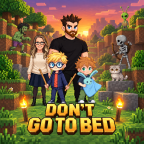
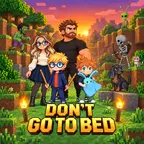
Use approved family artwork on Dont Go To Bed website

diff --git a/dontgotobed/styles.css b/dontgotobed/styles.css
@@ -1,1 +1,4 @@
 :root{color-scheme:dark;--bg:#0b1220;--surface:#15253a;--ink:#f4f4f6;--muted:#bdccdc;--accent:#ffd166;--line:#34465b;font:17px/1.7 system-ui,-apple-system,BlinkMacSystemFont,"Segoe UI",sans-serif;color:var(--ink);background:var(--bg)}*{box-sizing:border-box}body{margin:0;background:radial-gradient(ellipse at 85% 5%,#253a57,transparent 40%)}.wrap{max-width:1180px;margin:auto;padding:0 28px}a{color:#b8e8ef;text-underline-offset:4px;overflow-wrap:anywhere}a:hover{color:white}a:focus-visible,summary:focus-visible{outline:3px solid var(--accent);outline-offset:5px}.skip{position:absolute;top:-100px}.skip:focus{top:8px;background:var(--bg);padding:12px;z-index:10}header,footer{display:flex;align-items:center;justify-content:space-between;gap:24px;padding:28px 0}header{border-bottom:1px solid var(--line)}nav{display:flex;flex-wrap:wrap;gap:18px}.brand{display:flex;gap:12px;align-items:center;color:var(--ink);font-weight:800;text-decoration:none}.brand img{border-radius:10px}.hero{display:grid;grid-template-columns:1.1fr 1fr;gap:44px;align-items:center;padding:64px 0 24px;border:0}h1,h2,h3{line-height:1.12;letter-spacing:-.035em}h1{font-size:clamp(2.6rem,5vw,4.25rem);margin:20px 0 28px}h1 span{color:var(--accent)}h2{font-size:clamp(1.8rem,3vw,2.6rem);margin:12px 0 28px}h3{font-size:1.25rem}.eyebrow,.number{font-size:.76rem;letter-spacing:.13em;text-transform:uppercase;color:var(--accent);font-weight:800}.lead{font-size:1.14rem;color:var(--muted);max-width:60ch}.button{display:inline-block;background:var(--accent);color:var(--bg);padding:14px 20px;border-radius:12px;text-decoration:none;font-weight:750;margin:14px 0}.button:hover{background:#ffe3a0;color:var(--bg)}.note,figcaption{font-size:.85rem;color:var(--muted)}.hero-art{height:460px;position:relative;overflow:hidden;border-radius:34px;background:radial-gradient(circle at 65% 25%,#436386,#16283e 70%);box-shadow:0 25px 65px #0005}.moon{position:absolute;right:42px;top:42px;width:72px;height:72px;border-radius:50%;background:#ffe2a0;box-shadow:0 0 70px #ffe2a044}.hero-art img{position:absolute;object-fit:contain;object-position:bottom;bottom:65px;filter:drop-shadow(5px 7px 0 #0003)}.papa{left:29%;width:42%;height:310px}.leo{left:6%;width:36%;height:230px}.ian{left:61%;width:32%;height:230px}.ground{position:absolute;bottom:0;left:0;right:0;height:70px;border-top:14px solid #79b87c;background:repeating-linear-gradient(90deg,transparent 0 62px,#39271c44 62px 64px),#78503a}.pills{display:flex;flex-wrap:wrap;gap:12px;margin:26px 0 40px}.pills span{border:1px solid var(--line);border-radius:40px;padding:7px 14px;font-size:.82rem;color:var(--muted)}section{padding:56px 0;border-top:1px solid var(--line);scroll-margin-top:24px}.grid{display:grid;grid-template-columns:repeat(3,1fr);gap:22px}.grid article{padding:28px;background:var(--surface);border:1px solid var(--line);border-radius:20px}.grid p,.story p,.questions p{color:var(--muted)}figure{margin:28px 0 0}.screenshot{width:100%;height:auto;border:1px solid var(--line);border-radius:20px;display:block}figcaption{margin-top:12px}.story{display:grid;grid-template-columns:1fr 1fr;gap:50px}.questions{max-width:850px;margin:auto}details{border-bottom:1px solid var(--line);padding:12px 0}summary{cursor:pointer;font-weight:650;min-height:44px;padding:8px 0}.closing{display:flex;align-items:center;gap:25px;padding:30px;background:var(--surface);border:1px solid var(--line);border-radius:24px;margin:40px 0 65px}.closing > img{border-radius:16px}.closing h2{font-size:1.75rem;margin-bottom:10px}.closing p{margin:6px 0}footer{border-top:1px solid var(--line);font-size:.85rem;color:var(--muted);align-items:flex-start;padding-bottom:40px}.legal{max-width:800px;padding:40px 0 64px}.legal h1{font-size:clamp(2.2rem,5vw,3.3rem)}.legal h2{font-size:1.45rem;margin-top:36px}.legal p{color:var(--muted)}@media(max-width:820px){.hero,.grid,.story{grid-template-columns:1fr}.hero{padding-top:36px;gap:25px}.hero-art{max-width:550px;width:100%;justify-self:center}.story{gap:0}footer{flex-direction:column}}@media(max-width:520px){.wrap{padding:0 20px}header{align-items:flex-start;flex-direction:column;gap:14px}nav{font-size:.9rem;gap:14px}.hero-art{height:350px}.papa{height:260px}.leo,.ian{height:195px}.moon{width:55px;height:55px;top:28px;right:30px}section{padding:38px 0}.closing{align-items:flex-start;flex-direction:column;padding:24px}.grid article{padding:24px}}@media(prefers-reduced-motion:reduce){*{scroll-behavior:auto!important;animation:none!important;transition:none!important}}
+
+/* Approved family promotional artwork, October 2026. */
+.family-key-art{align-self:center;min-width:0}.family-key-art img{display:block;width:100%;height:auto;border-radius:12px}

diff --git a/dontgotobed/index.html b/dontgotobed/index.html
@@ -10,7 +10,7 @@
 <link rel="icon" type="image/webp" href="/dontgotobed/assets/game-icon-144.webp">
 <link rel="stylesheet" href="/dontgotobed/styles.css?v=14688139293e">
 <link rel="stylesheet" href="/assets/portfolio-links.css?v=70d992bf5b58">
-<meta property="og:type" content="website"><meta property="og:title" content="Don’t Go To Bed – Free Family Adventure Game for Android &amp; iOS"><meta property="og:url" content="https://jamescullimore.dev/dontgotobed/"><meta property="og:image" content="https://jamescullimore.dev/dontgotobed/assets/multiplayer.png"><meta name="twitter:card" content="summary_large_image"><meta property="og:description" content="Don't Go To Bed: a free family adventure for Android, iPhone and iPad. Explore, build and find Mammy before nightfall.">
+<meta property="og:type" content="website"><meta property="og:title" content="Don’t Go To Bed – Free Family Adventure Game for Android &amp; iOS"><meta property="og:url" content="https://jamescullimore.dev/dontgotobed/"><meta property="og:image" content="https://jamescullimore.dev/dontgotobed/assets/family-banner.png"><meta name="twitter:card" content="summary_large_image"><meta property="og:description" content="Don't Go To Bed: a free family adventure for Android, iPhone and iPad. Explore, build and find Mammy before nightfall.">
 <script defer src="/assets/analytics-consent.js?v=39410635d34d"></script>
 <script defer src="/assets/conversion-analytics.js?v=db70951e99b0"></script>
 <script type="application/ld+json">
@@ -28,7 +28,7 @@
   ],
   "image": "https://jamescullimore.dev/dontgotobed/assets/game-icon.png",
   "screenshot": [
-    "https://jamescullimore.dev/dontgotobed/assets/multiplayer.png"
+    "https://jamescullimore.dev/dontgotobed/assets/family-banner.png"
   ],
   "installUrl": [
     "https://play.google.com/store/apps/details?id=dev.jamescullimore.dontgotobed",
@@ -74,15 +74,7 @@
 <a href="https://play.google.com/store/apps/details?id=dev.jamescullimore.dontgotobed"><img src="/assets/google_play_badge.png" alt="Get it on Google Play" width="162" height="48"></a>
 </div>
 </div>
-<div class="hero-art" role="img" aria-label="Leo, Ian and Daddy set off together under a moonlit sky">
-<span class="moon" aria-hidden="true">
-</span>
-<img class="papa" src="assets/papa-marketing-front.webp" alt="">
-<img class="leo" src="assets/leo-display.webp" alt="">
-<img class="ian" src="assets/ian-display.webp" alt="">
-<span class="ground" aria-hidden="true">
-</span>
-</div>
+<div class="family-key-art"><img src="assets/family-banner.png" alt="Ian and Leo lead the adventure, with Mammy, Daddy, Grace and the cat" width="1792" height="876"></div>
 </section>
 <div class="pills">
 <span>Three playable characters</span>
